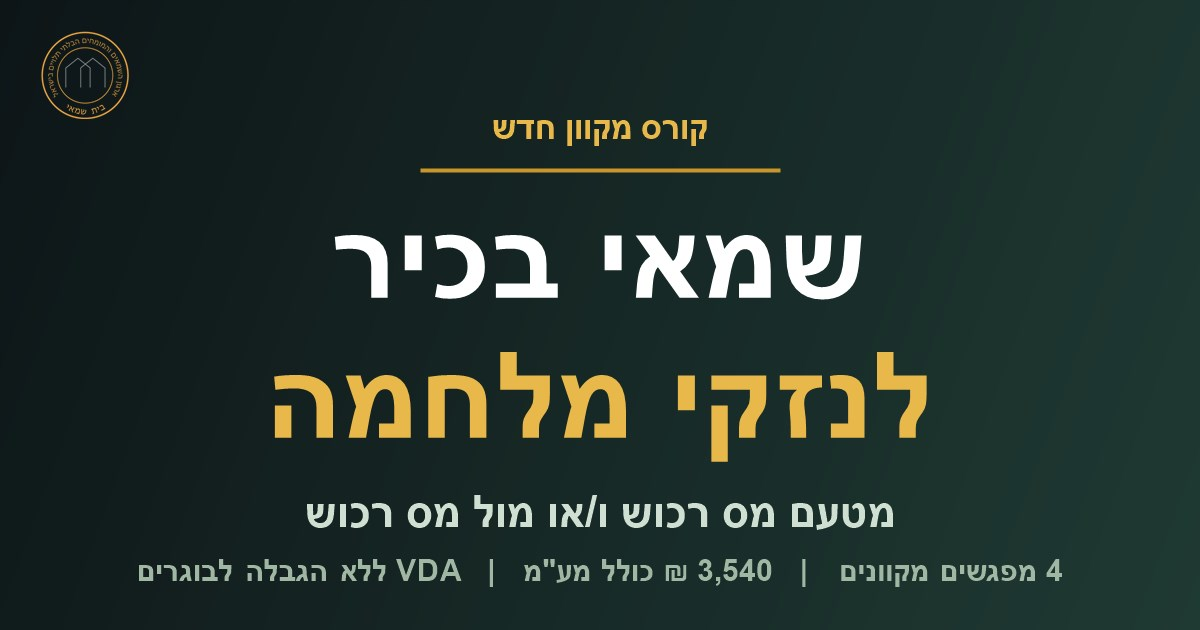
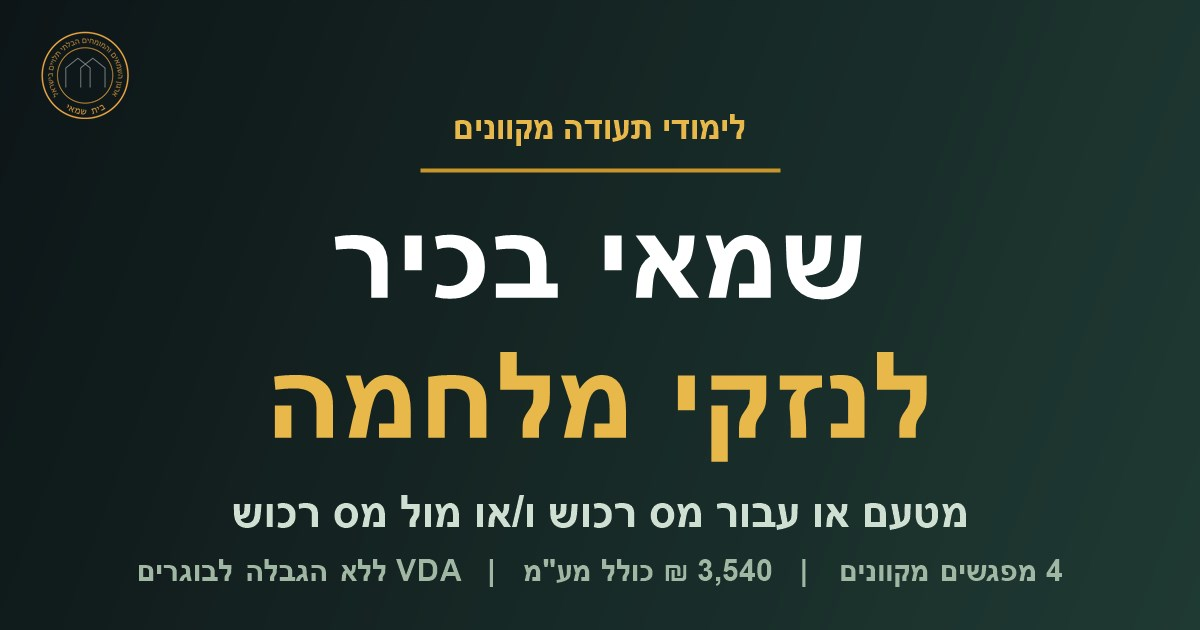
War damage course: 'מטעם או עבור מס רכוש', certificate studies wording, sample certificate

Changed region(s): [[0.185, 0.7841, 0.8017, 0.8444], [0.37, 0.181, 0.6167, 0.2413]]

diff --git a/war-damage/index.html b/war-damage/index.html
@@ -4,7 +4,7 @@
 <meta charset="UTF-8">
 <meta name="viewport" content="width=device-width, initial-scale=1.0">
 <title>שמאי בכיר לנזקי מלחמה | מס רכוש וקרן פיצויים | בית שמאי®</title>
-<meta name="description" content="קורס מקוון בן 4 מפגשים: שמאי בכיר לנזקי מלחמה מטעם מס רכוש ו/או מול מס רכוש. חוק מס רכוש וקרן פיצויים, נהלי עבודה ובדיקה, ושימוש ללא הגבלה במערכת VDA™ לנזקי מלחמה. 3,540 ₪ כולל מע״מ.">
+<meta name="description" content="לימודי תעודה מקוונים בני 4 מפגשים: שמאי בכיר לנזקי מלחמה מטעם או עבור מס רכוש ו/או מול מס רכוש. חוק מס רכוש וקרן פיצויים, נהלי עבודה ובדיקה, ושימוש ללא הגבלה במערכת VDA™ לנזקי מלחמה. 3,540 ₪ כולל מע״מ.">
 <meta name="keywords" content="שמאי נזקי מלחמה, קורס נזקי מלחמה, מס רכוש, קרן פיצויים, חוק מס רכוש וקרן פיצויים, שמאי בכיר לנזקי מלחמה, שומת נזקי מלחמה, תביעת מס רכוש, ערר מס רכוש, שמאי רכוש, שמאי ביטוח, מהנדס בניין, הנדסאי בניין, קבלני בנייה, VDA נזקי מלחמה, קורס שמאים מקוון, בית שמאי">
 
 <meta property="og:type" content="website">
@@ -13,13 +13,13 @@
 <meta property="og:url" content="https://betshamay.co.il/war-damage/">
 <meta property="og:title" content="שמאי בכיר לנזקי מלחמה | בית שמאי®">
 <meta property="og:description" content="4 מפגשים מקוונים: חוק מס רכוש וקרן פיצויים, נהלי עבודה ובדיקה, ושימוש ללא הגבלה במערכת VDA™ לנזקי מלחמה. 3,540 ₪ כולל מע״מ.">
-<meta property="og:image" content="https://betshamay.co.il/war-damage-share.jpg">
+<meta property="og:image" content="https://betshamay.co.il/war-damage-share.jpg?v=2">
 <meta property="og:image:width" content="1200">
 <meta property="og:image:height" content="630">
 <meta name="twitter:card" content="summary_large_image">
 <meta name="twitter:title" content="שמאי בכיר לנזקי מלחמה | בית שמאי®">
 <meta name="twitter:description" content="4 מפגשים מקוונים: חוק מס רכוש וקרן פיצויים, נהלי עבודה ובדיקה, ושימוש ללא הגבלה במערכת VDA™ לנזקי מלחמה.">
-<meta name="twitter:image" content="https://betshamay.co.il/war-damage-share.jpg">
+<meta name="twitter:image" content="https://betshamay.co.il/war-damage-share.jpg?v=2">
 
 <link rel="canonical" href="https://betshamay.co.il/war-damage/">
 <link rel="icon" type="image/png" href="../logo-seal.png">
@@ -42,6 +42,7 @@
   "description": "קורס מקוון בן 4 מפגשים: חוק מס רכוש וקרן פיצויים, נהלי עבודה ובדיקה, ושימוש במערכת VDA™ לנזקי מלחמה.",
   "provider": { "@type": "Organization", "name": "בית שמאי®", "sameAs": "https://betshamay.co.il" },
   "inLanguage": "he",
+  "educationalCredentialAwarded": "תעודת סיום לימודי תעודה, בית שמאי®",
   "offers": { "@type": "Offer", "price": "3540", "priceCurrency": "ILS", "availability": "https://schema.org/InStock", "url": "https://betshamay.co.il/war-damage/#register" },
   "hasCourseInstance": [
     { "@type": "CourseInstance", "courseMode": "online", "name": "מחזור ימי ראשון, מהשעה 19:30" },
@@ -157,11 +158,11 @@
 </nav>
 
 <header class="hero">
-  <div class="tag">קורס מקוון חדש</div>
+  <div class="tag">לימודי תעודה | קורס מקוון חדש</div>
   <h1>שמאי בכיר <span>לנזקי מלחמה</span></h1>
-  <p class="sub">מטעם מס רכוש ו/או מול מס רכוש</p>
+  <p class="sub">מטעם או עבור מס רכוש ו/או מול מס רכוש</p>
   <div class="facts">
-    <div class="fact">4 מפגשים<small>לימוד מקוון</small></div>
+    <div class="fact">4 מפגשים<small>לימודי תעודה מקוונים</small></div>
     <div class="fact">ימי ראשון או ימי שלישי<small>מהשעה 19:30, שני מחזורים במקביל</small></div>
     <div class="fact">3,540 ₪<small>כולל מע״מ</small></div>
   </div>
@@ -182,7 +183,7 @@
 <section class="gray" id="syllabus">
   <div class="container">
     <h2>תוכנית <span>הלימודים</span></h2>
-    <p class="lead">ארבעה מפגשים מקוונים ב-<span class="ltr-inline">Google Meet</span>. כל מפגש בנוי כמערך שיעור מלא, עם תרגול.</p>
+    <p class="lead">לימודי תעודה בני ארבעה מפגשים מקוונים ב-<span class="ltr-inline">Google Meet</span>. כל מפגש בנוי כמערך שיעור מלא, עם תרגול.</p>
     <div class="sessions">
       <div class="session">
         <div class="n">מפגש 1</div>
@@ -234,6 +235,15 @@
     <p>בוגרי הקורס יקבלו שימוש ללא הגבלה במערכת <span class="ltr-inline">VDA™</span> לנזקי מלחמה, מערכת לניתוח חזותי של נזקים ולהפקת שומה ראשונית מתמונות. המערכת משולבת בתוכנית הלימודים ומשמשת לתרגול מעשי במפגש הרביעי.</p>
     <p class="note">כיום המערכת פתוחה לשימוש בודד בלבד לכל משתמש. הגישה ללא הגבלה שמורה לבוגרי הקורס.</p>
     <a class="link" href="https://wardamageassessment.lovable.app/" target="_blank" rel="noopener">לצפייה במערכת ←</a>
+  </div>
+</section>
+
+<section class="gray" id="certificate">
+  <div class="container" style="text-align:center;">
+    <h2>תעודת <span>סיום</span></h2>
+    <p class="lead" style="margin-inline:auto;">זהו לימודי תעודה. בסיום הקורס מוענקת תעודת סיום מטעם "בית שמאי®" על שם הבוגר/ת.</p>
+    <img src="../war-damage-certificate-sample.jpg" alt="תעודה לדוגמה: תעודת סיום לימודי תעודה, שמאי בכיר לנזקי מלחמה, בית שמאי" loading="lazy" style="width:100%; max-width:820px; height:auto; border-radius:8px; box-shadow:0 8px 30px rgba(0,0,0,.22); border:1px solid #e1e8e1;">
+    <p style="color:var(--muted); font-size:14px; margin-top:12px;">תעודה לדוגמה. נוסח התעודה הסופית עשוי להשתנות.</p>
   </div>
 </section>
 
@@ -297,6 +307,7 @@
     <h2>שאלות <span>נפוצות</span></h2>
     <details><summary>האם צריך להגיש קורות חיים?</summary><p>לא. כל מי שהוא שמאי מקרקעין, שמאי רכוש, מהנדס בניין, הנדסאי בניין, קבלן בנייה או שמאי ביטוח יכול להירשם.</p></details>
     <details><summary>מה קורה אם לא התקבלתי?</summary><p>התשלום מתבצע בעת ההרשמה, ומי שלא יתקבל יקבל החזר מלא.</p></details>
+    <details><summary>האם מדובר בלימודי תעודה?</summary><p>כן. הקורס הוא לימודי תעודה בני 4 מפגשים מקוונים, ובסיומו מוענקת תעודת סיום מטעם "בית שמאי®". אפשר לראות תעודה לדוגמה בדף.</p></details>
     <details><summary>איך נלמד הקורס?</summary><p>בלימוד מקוון ב-Google Meet, ארבעה מפגשים, בשני מחזורים במקביל: ימי ראשון וימי שלישי, מהשעה 19:30.</p></details>
     <details><summary>מה כולל השימוש במערכת <span class="ltr-inline">VDA™</span> לנזקי מלחמה?</summary><p>בוגרי הקורס מקבלים שימוש ללא הגבלה במערכת. כיום המערכת פתוחה לשימוש בודד בלבד לכל משתמש.</p></details>
     <details><summary>האם ההסמכה היא מטעם רשות המסים?</summary><p>לא. הקורס מקנה הסמכה מקצועית פנימית מטעם "בית שמאי®", ואינו רישוי סטטוטורי או מינוי מטעם רשות המסים או מס רכוש.</p></details>

diff --git a/index.html b/index.html
@@ -1514,12 +1514,12 @@
 <!-- ════ WAR DAMAGE COURSE ════ -->
 <section id="war-damage" style="background:linear-gradient(135deg,#0d1517 0%,#16262a 55%,#1f3a33 100%); color:#fff; padding:80px 40px;">
   <div class="container" style="text-align:center;">
-    <div style="display:inline-block; border:1px solid rgba(232,184,75,.5); color:var(--gold-light); border-radius:999px; padding:4px 16px; font-size:14px; font-weight:700; margin-bottom:18px;">קורס מקוון חדש</div>
+    <div style="display:inline-block; border:1px solid rgba(232,184,75,.5); color:var(--gold-light); border-radius:999px; padding:4px 16px; font-size:14px; font-weight:700; margin-bottom:18px;">לימודי תעודה | קורס מקוון חדש</div>
     <h2 class="section-title" style="color:#fff; margin-bottom:8px;">שמאי בכיר <span style="color:var(--gold-light)">לנזקי מלחמה</span></h2>
-    <p style="color:#cfe0d2; font-size:1.25rem; font-weight:700; margin-bottom:26px;">מטעם מס רכוש ו/או מול מס רכוש</p>
+    <p style="color:#cfe0d2; font-size:1.25rem; font-weight:700; margin-bottom:26px;">מטעם או עבור מס רכוש ו/או מול מס רכוש</p>
     <p style="color:#c8dbc9; max-width:760px; margin:0 auto 26px; line-height:1.85;">לשמאי מקרקעין, שמאי רכוש, מהנדסי בניין, הנדסאי בניין, קבלני בנייה ושמאי ביטוח. ארבעה מפגשים: חוק מס רכוש וקרן פיצויים, חישוב הפיצוי, נהלי עבודה ובדיקה, ועבודה מעשית במערכת <span dir="ltr" style="unicode-bidi:isolate;">VDA™</span> לנזקי מלחמה.</p>
     <div style="display:flex; flex-wrap:wrap; gap:12px; justify-content:center; margin-bottom:28px;">
-      <div style="background:rgba(255,255,255,.08); border:1px solid rgba(255,255,255,.15); border-radius:12px; padding:12px 22px; font-weight:700;">4 מפגשים מקוונים</div>
+      <div style="background:rgba(255,255,255,.08); border:1px solid rgba(255,255,255,.15); border-radius:12px; padding:12px 22px; font-weight:700;">4 מפגשים מקוונים, לימודי תעודה</div>
       <div style="background:rgba(255,255,255,.08); border:1px solid rgba(255,255,255,.15); border-radius:12px; padding:12px 22px; font-weight:700;">ימי ראשון או ימי שלישי, מהשעה 19:30</div>
       <div style="background:rgba(255,255,255,.08); border:1px solid rgba(255,255,255,.15); border-radius:12px; padding:12px 22px; font-weight:700;">3,540 ₪ כולל מע״מ</div>
     </div>

diff --git a/דף נחיתה/index.html b/דף נחיתה/index.html
@@ -1514,12 +1514,12 @@
 <!-- ════ WAR DAMAGE COURSE ════ -->
 <section id="war-damage" style="background:linear-gradient(135deg,#0d1517 0%,#16262a 55%,#1f3a33 100%); color:#fff; padding:80px 40px;">
   <div class="container" style="text-align:center;">
-    <div style="display:inline-block; border:1px solid rgba(232,184,75,.5); color:var(--gold-light); border-radius:999px; padding:4px 16px; font-size:14px; font-weight:700; margin-bottom:18px;">קורס מקוון חדש</div>
+    <div style="display:inline-block; border:1px solid rgba(232,184,75,.5); color:var(--gold-light); border-radius:999px; padding:4px 16px; font-size:14px; font-weight:700; margin-bottom:18px;">לימודי תעודה | קורס מקוון חדש</div>
     <h2 class="section-title" style="color:#fff; margin-bottom:8px;">שמאי בכיר <span style="color:var(--gold-light)">לנזקי מלחמה</span></h2>
-    <p style="color:#cfe0d2; font-size:1.25rem; font-weight:700; margin-bottom:26px;">מטעם מס רכוש ו/או מול מס רכוש</p>
+    <p style="color:#cfe0d2; font-size:1.25rem; font-weight:700; margin-bottom:26px;">מטעם או עבור מס רכוש ו/או מול מס רכוש</p>
     <p style="color:#c8dbc9; max-width:760px; margin:0 auto 26px; line-height:1.85;">לשמאי מקרקעין, שמאי רכוש, מהנדסי בניין, הנדסאי בניין, קבלני בנייה ושמאי ביטוח. ארבעה מפגשים: חוק מס רכוש וקרן פיצויים, חישוב הפיצוי, נהלי עבודה ובדיקה, ועבודה מעשית במערכת <span dir="ltr" style="unicode-bidi:isolate;">VDA™</span> לנזקי מלחמה.</p>
     <div style="display:flex; flex-wrap:wrap; gap:12px; justify-content:center; margin-bottom:28px;">
-      <div style="background:rgba(255,255,255,.08); border:1px solid rgba(255,255,255,.15); border-radius:12px; padding:12px 22px; font-weight:700;">4 מפגשים מקוונים</div>
+      <div style="background:rgba(255,255,255,.08); border:1px solid rgba(255,255,255,.15); border-radius:12px; padding:12px 22px; font-weight:700;">4 מפגשים מקוונים, לימודי תעודה</div>
       <div style="background:rgba(255,255,255,.08); border:1px solid rgba(255,255,255,.15); border-radius:12px; padding:12px 22px; font-weight:700;">ימי ראשון או ימי שלישי, מהשעה 19:30</div>
       <div style="background:rgba(255,255,255,.08); border:1px solid rgba(255,255,255,.15); border-radius:12px; padding:12px 22px; font-weight:700;">3,540 ₪ כולל מע״מ</div>
     </div>
